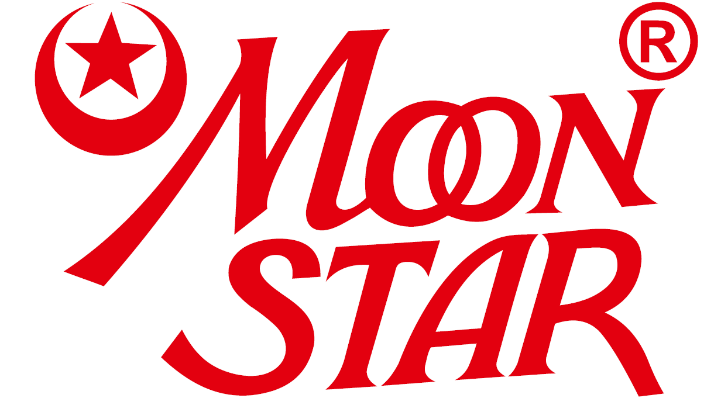
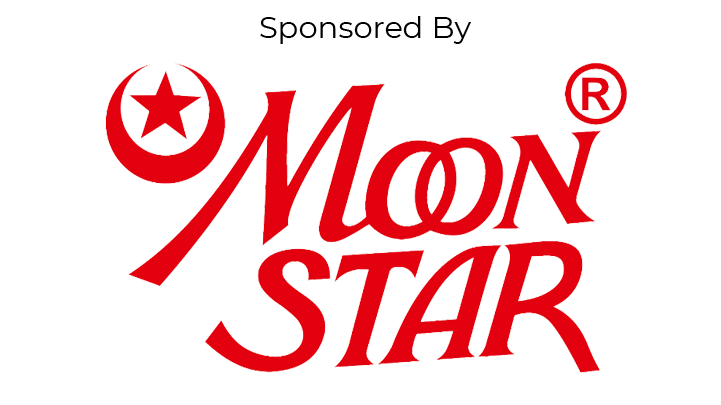
Sponsors

diff --git a/bookings/src/components/partials/Header.jsx b/bookings/src/components/partials/Header.jsx
@@ -20,7 +20,7 @@ class Header extends Component {
                         <nav className="sidebar-nav">
                             <ul>
                                 <li><a href="/">home</a></li>
-                                <li><a href="/about">about</a></li>
+                                {/* <li><a href="/about">about</a></li> */}
                                 <li><a href="/events">events</a></li>
                                 <li><a href="/contact">contact</a></li>
                                 <li><a href="/signup">register</a></li>
@@ -35,7 +35,7 @@ class Header extends Component {
                     <nav className="desktop-nav">
                         <ul>
                             <li><a href="/">home</a></li>
-                            <li><a href="/about">about</a></li>
+                            {/* <li><a href="/about">about</a></li> */}
                             <li><a href="/events">events</a></li>
                             <li><a href="/contact">contact</a></li>
                             <li className="highlight"><a href="/signup" className="highlight">register</a></li>

diff --git a/homepage/static/css/Homepage.css b/homepage/static/css/Homepage.css
@@ -104,6 +104,17 @@ img[class~="mobile"] {
     top: 35%;
     font-size: 8em;
     z-index: 200;
+
+    display: flex;
+    flex-direction: column;
+    align-content: center;
+}
+
+.grid .hero #ongc {
+    max-width: 250px;
+}
+.grid .hero #moonstar {
+    max-width: 200px;
 }
 
 @media (max-width: 800px) {
@@ -143,6 +154,10 @@ img[class~="mobile"] {
 
     .grid .hero .Title {
         display: none;
+    }
+
+    .grid .hero #mobile_title_sponsors {
+        max-width: 200px;
     }
 }
 @media(min-width: 1200px) {
@@ -383,12 +398,21 @@ img[class~="mobile"] {
 /* ----- Sponsors ----- */
 .sponsors {
     padding: 3em;
-
-} .sponsors marquee {
-
+    display: flex;
+    flex-flow: column;
 } .sponsors img {
     width: 8em;
     margin: 2em 4em;
+} @media(max-width: 600px) {
+    .sponsors img {
+        margin: 1em;
+    }
+}
+@media(max-width: 600px) {
+    .sponsors .others img {
+        width: 6em;
+        margin: 1em;
+    }
 }
 
 /* ----- Call to Action ----- */
